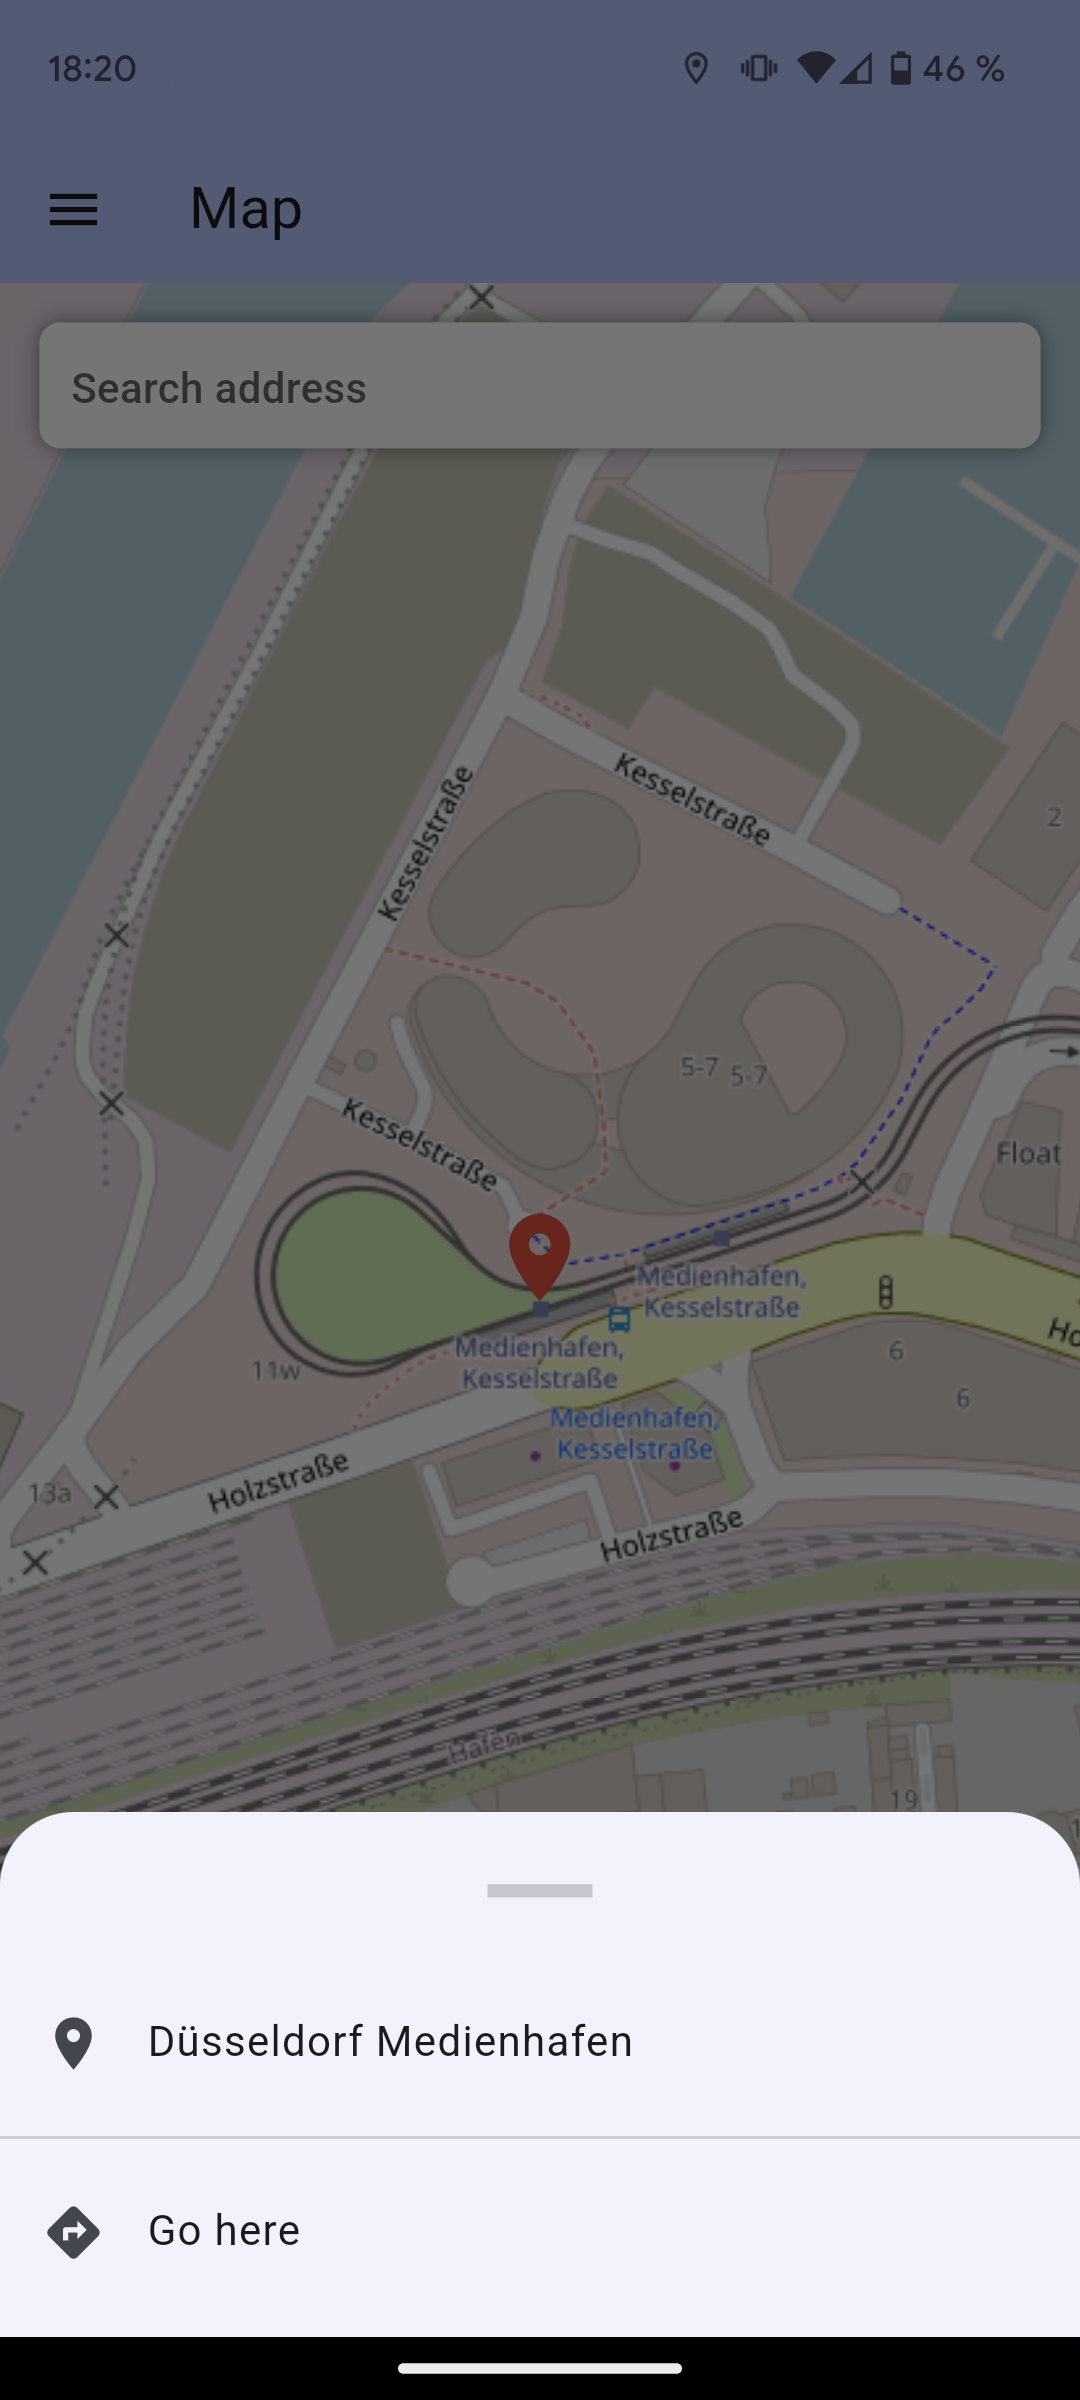
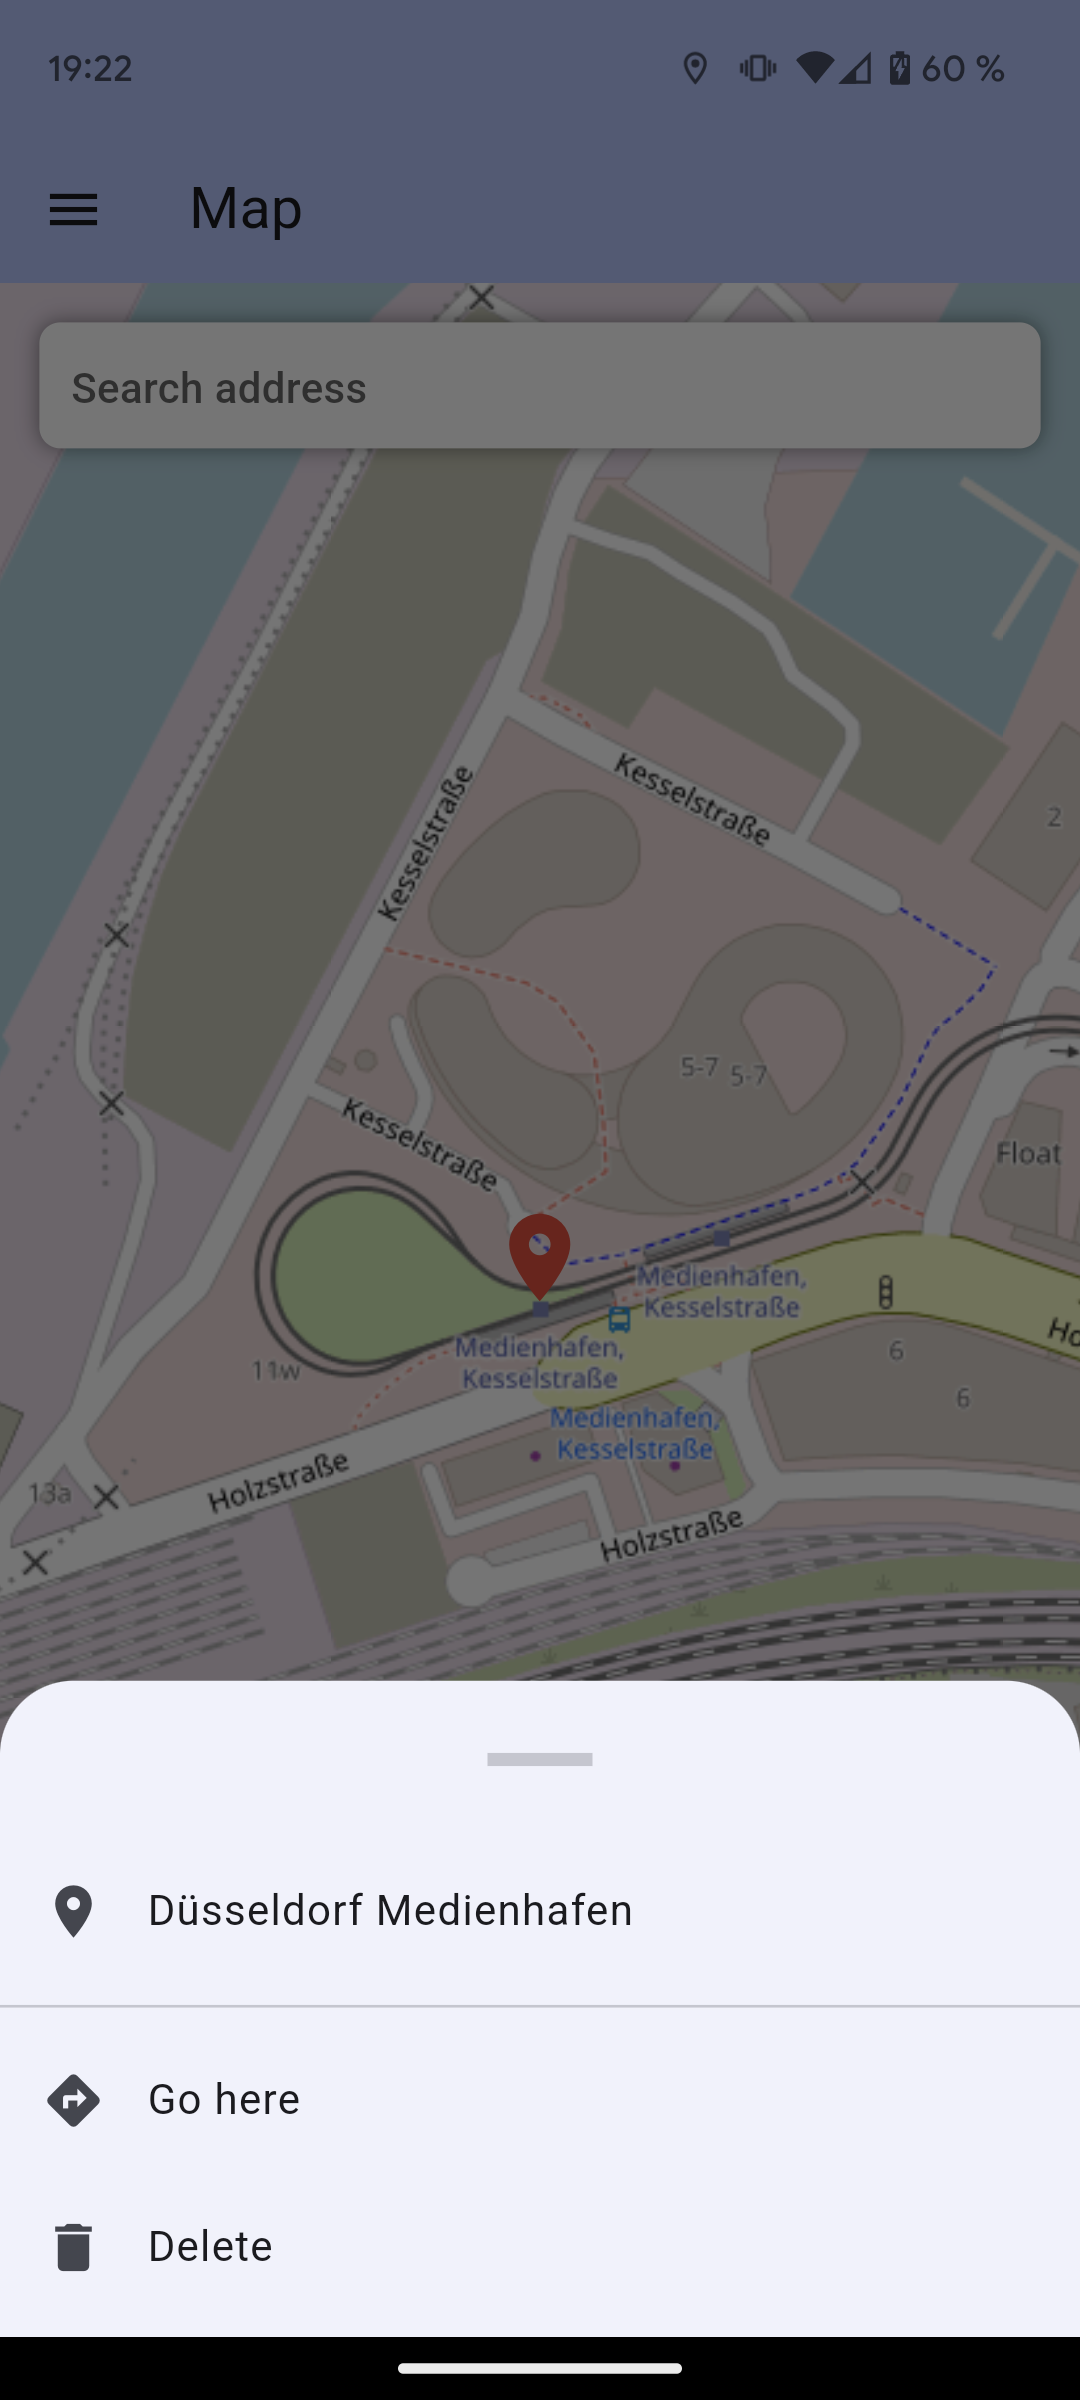
Add delete button to waypoint menu

diff --git a/lib/map_screen.dart b/lib/map_screen.dart
@@ -286,7 +286,7 @@ class _MapScreenState extends State<MapScreen> {
         context: context,
         builder: (context) {
           return SizedBox(
-            height: 200,
+            height: 250,
             child: Column(
               children: [
                 Container(
@@ -311,6 +311,34 @@ class _MapScreenState extends State<MapScreen> {
                     if (!await launchUrl(url)) {
                       _showSnackBar('Could not start navigation');
                     }
+                  },
+                ),
+                ListTile(
+                  leading: const Icon(Icons.delete),
+                  title: const Text('Delete'),
+                  onTap: () async {
+                    final db = TourPlannerDatabase();
+
+                    db.deleteWaypoint(waypoint.id);
+
+                    // Close waypoint menu
+                    Navigator.of(context).pop();
+
+                    loadMarkers();
+
+                    ScaffoldMessenger.of(context).showSnackBar(
+                      SnackBar(
+                        content: const Text('Waypoint deleted'),
+                        action: SnackBarAction(
+                          label: 'Undo',
+                          onPressed: () {
+                            db.addWaypoint(
+                                waypoint); // Add waypoint back into database
+                            loadMarkers();
+                          },
+                        ),
+                      ),
+                    );
                   },
                 ),
               ],
